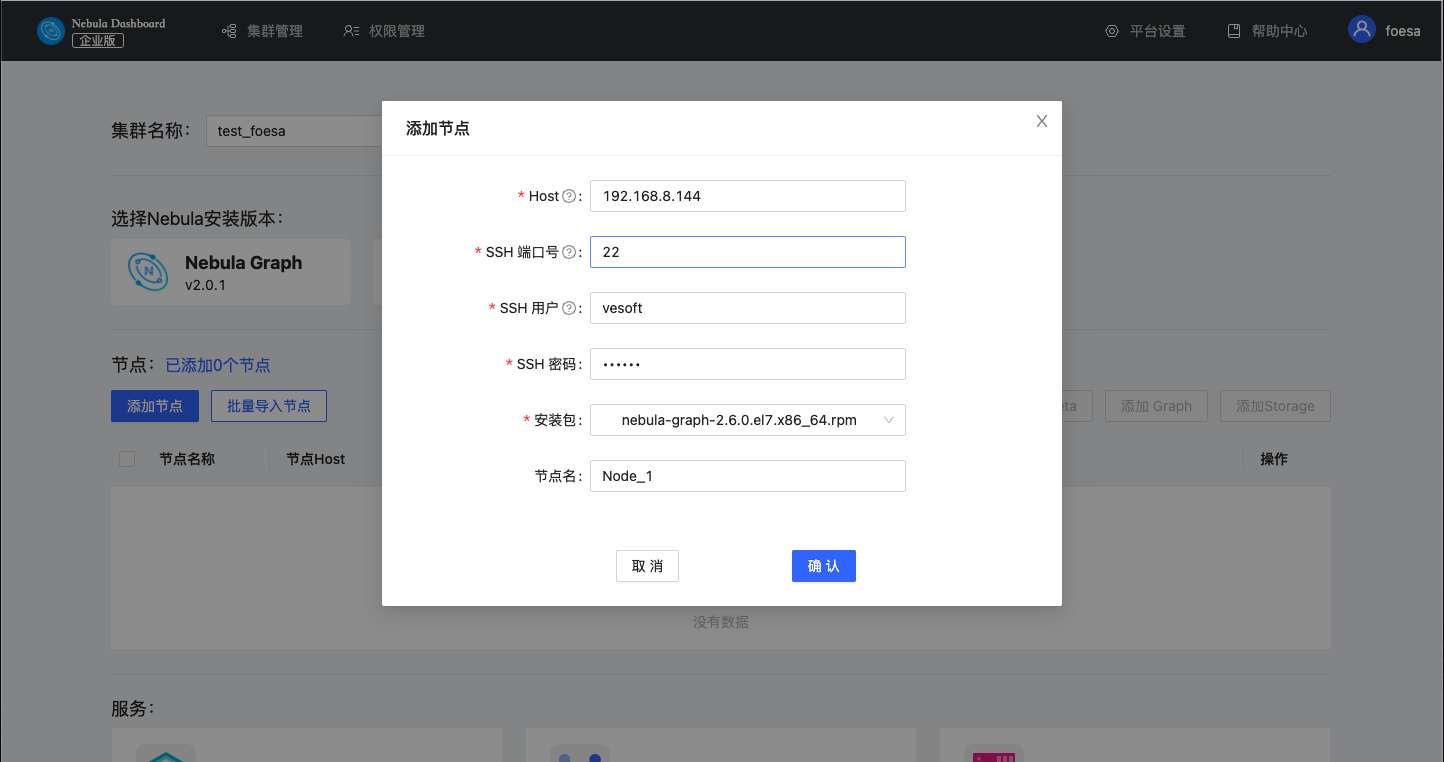
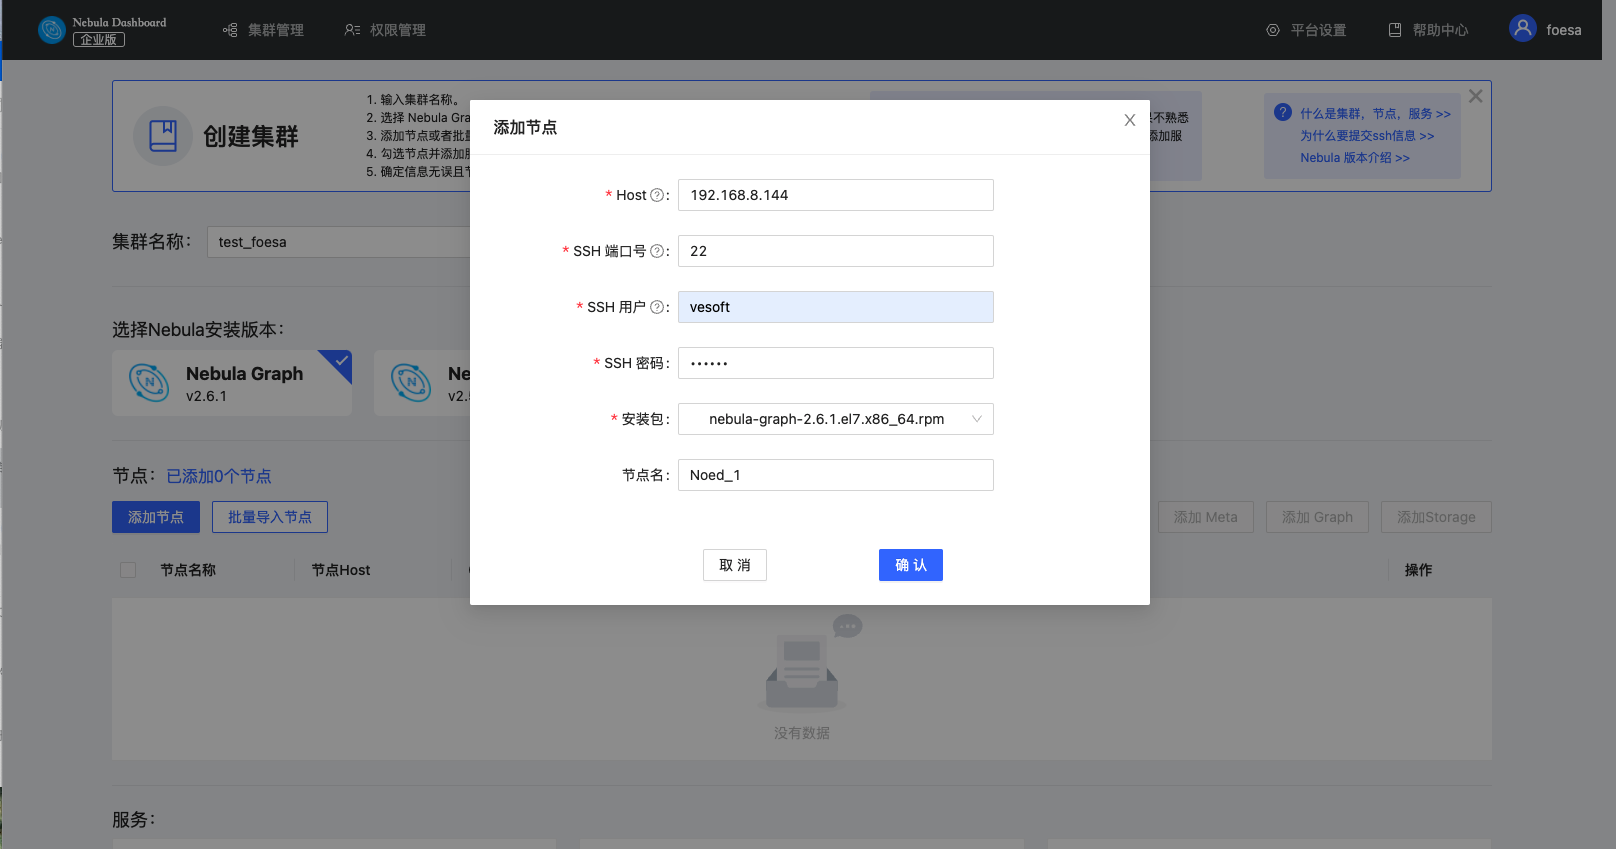
update

diff --git a/docs-2.0/nebula-dashboard-en/3.create-import-dashboard/1.create-cluster.md b/docs-2.0/nebula-dashboard-en/3.create-import-dashboard/1.create-cluster.md
@@ -9,21 +9,23 @@
 1. 在集群管理页面，点击 **创建集群** 标签。
 2. 在创建集群页面，完成以下配置：
    - 输入 **集群名称**，最大可输入15个字符，本示例设置为`test_foesa`。
-   - 选择Nebula Graph安装版本，本示例设置为`v2.6.0`。
+   - 选择Nebula Graph安装版本，本示例设置为`v2.6.1`。
    - 添加节点或者批量导入节点，如果是多节点的集群，需要添加每个节点的相关信息。
   
      1. 配置每个Host的IP信息，本示例设置为`192.168.8.144`。
      2. 配置 SSH 信息，本示例设置如下：SSH端口号为`22`，SSH用户名为 `vesoft`，SSH 密码为`nebula`。
-     3. 选择 Nebula Graph 安装包，本示例为`nebula-graph-2.6.0.el7.x86_64rpm`。
+     3. 选择 Nebula Graph 安装包，本示例为`nebula-graph-2.6.1.el7.x86_64rpm`。
      4. （可选）输入节点名。本示例设置为`Noed_1`。
 
      ![cluster](../figs/ds-021.png)
 
 3. 勾选节点并在节点右上方，点击需要添加的服务。创建集群需要给节点添加3种类型的服务，如果不熟悉Nebula Graph架构，建议点击 **自动添加服务** 按钮。
 
+   ![add-service](../figs/ds-029.png)
+
 4. （可选）在下方的服务中，选择编辑meta、graph、storage服务的端口号、HTTP端口号、HTTP2端口号，点击确认保存。
 
-   ![install](../figs/ds-022.png)
+   ![install](../figs/ds-021.png)
 
 5. 点击**创建集群**，确定配置信息无误且节点无冲突后，点击**确认**。
 
@@ -31,7 +33,6 @@
 
 6. 在集群管理页面中的列表中出现状态为`installing`的集群，状态变为`healthy`即集群创建成功。
    ![installing](../figs/ds-024.png)
-
 
 ## 后续操作
 
